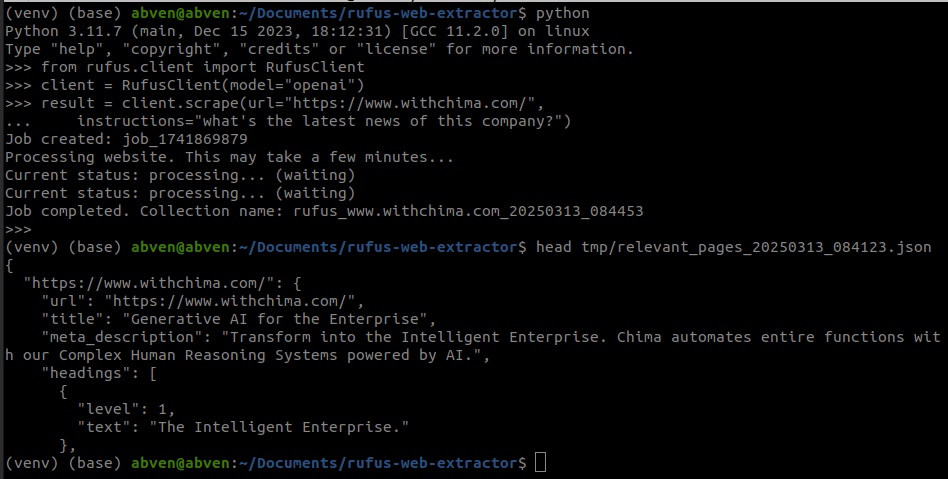
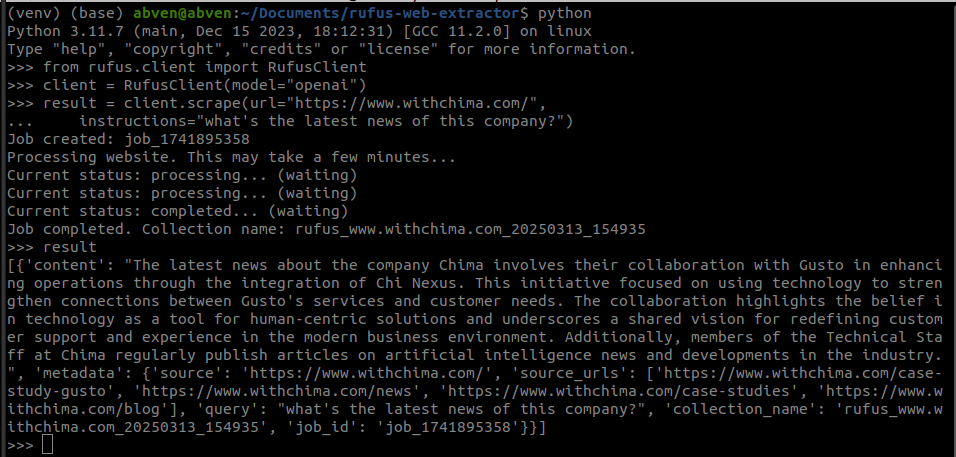
Updated the Output Image in README.md

Changed region(s): [[0.0, 0.0, 1.0, 1.0]]

diff --git a/rufus/client.py b/rufus/client.py
@@ -61,6 +61,164 @@ class RufusClient:
         # Add model info to headers
         self.headers["X-Model-Type"] = self.model
 
+    # def scrape(
+    #     self,
+    #     url: str,
+    #     instructions: str = "",
+    #     max_depth: int = 2,
+    #     max_pages: int = 20,
+    #     use_parallel: bool = True,
+    # ) -> List[Dict[str, Any]]:
+    #     """
+    #     Scrape a website and prepare data for RAG.
+
+    #     Args:
+    #         url: URL to scrape
+    #         instructions: User instructions for content extraction
+    #         max_depth: Maximum crawl depth
+    #         max_pages: Maximum pages to crawl
+    #         use_parallel: Whether to use parallel crawling
+
+    #     Returns:
+    #         List of extracted documents
+    #     """
+    #     # Prepare request payload
+    #     payload = {
+    #         "url": url,
+    #         "instructions": instructions
+    #         or f"Extract comprehensive information from {url}",
+    #         "max_depth": max_depth,
+    #         "max_pages": max_pages,
+    #         "model": self.model,
+    #     }
+
+    #     # Send scrape request
+    #     try:
+    #         response = requests.post(
+    #             f"{self.base_url}/scrape",
+    #             headers=self.headers,
+    #             json=payload,
+    #             timeout=300,  # 5-minute timeout for initial request
+    #         )
+
+    #         # Check response
+    #         if response.status_code != 200:
+    #             try:
+    #                 error_data = response.json()
+    #                 error_msg = error_data.get("detail", "Unknown error")
+    #             except:
+    #                 error_msg = f"HTTP error {response.status_code}"
+
+    #             raise Exception(f"Failed to scrape website: {error_msg}")
+    #     except requests.exceptions.Timeout:
+    #         raise Exception(
+    #             "Request timed out. The server might be busy or unavailable."
+    #         )
+    #     except requests.exceptions.ConnectionError:
+    #         raise Exception(
+    #             f"Connection error. Please make sure the API server is running at {self.base_url}"
+    #         )
+
+    #     # Get job details
+    #     job_data = response.json()
+    #     job_id = job_data.get("job_id")
+
+    #     print(f"Job created: {job_id}")
+    #     print("Processing website. This may take a few minutes...")
+
+    #     # Poll for job completion
+    #     max_retries = 60  # Maximum number of retries (2 minutes with 2-second delay)
+    #     retries = 0
+
+    #     while job_data.get("status") in ["pending", "processing"]:
+    #         time.sleep(2)  # Wait for 2 seconds before checking again
+
+    #         try:
+    #             job_response = requests.get(
+    #                 f"{self.base_url}/jobs/{job_id}", headers=self.headers, timeout=10
+    #             )
+
+    #             if job_response.status_code != 200:
+    #                 raise Exception("Failed to retrieve job status")
+
+    #             job_data = job_response.json()
+
+    #             # Print progress update every 5 retries
+    #             if retries % 5 == 0:
+    #                 status = job_data.get("status", "unknown")
+    #                 print(f"Current status: {status}... (waiting)")
+
+    #             # Break if job is completed or failed
+    #             if job_data.get("status") in ["completed", "failed"]:
+    #                 break
+
+    #             retries += 1
+    #             if retries >= max_retries:
+    #                 raise Exception(
+    #                     "Job processing timed out. Please check the server logs."
+    #                 )
+
+    #         except requests.exceptions.RequestException as e:
+    #             raise Exception(f"Error checking job status: {str(e)}")
+
+    #     # Check if job failed
+    #     if job_data.get("status") == "failed":
+    #         raise Exception(f"Job failed: {job_data.get('error', 'Unknown error')}")
+
+    #     # If completed, get documents
+    #     collection_name = job_data.get("collection_name")
+    #     print(f"Job completed. Collection name: {collection_name}")
+
+    #     # Get the extracted documents from the collection
+    #     # This endpoint needs to be implemented on the server side
+    #     try:
+    #         docs_response = requests.get(
+    #             f"{self.base_url}/collections/{collection_name}/documents",
+    #             headers=self.headers,
+    #             timeout=30
+    #         )
+
+    #         if docs_response.status_code != 200:
+    #             raise Exception(f"Failed to retrieve documents: HTTP {docs_response.status_code}")
+
+    #         # Return the documents
+    #         documents = docs_response.json().get("documents", [])
+            
+    #         # If the documents endpoint isn't working, perform the initial query to get an answer
+    #         if not documents:
+    #             # Use the instructions as the first query to get an initial answer
+    #             answer_data = self.query(collection_name, instructions)
+                
+    #             # Create a synthetic document from the answer
+    #             default_doc = {
+    #                 "content": answer_data.get("answer", "No answer found"),
+    #                 "metadata": {
+    #                     "source": url,
+    #                     "source_urls": answer_data.get("source_urls", [url]),
+    #                     "query": instructions,
+    #                     "collection_name": collection_name
+    #                 }
+    #             }
+    #             documents = [default_doc]
+            
+    #         return documents
+            
+    #     except requests.exceptions.RequestException as e:
+    #         # Fallback to returning the job metadata with an empty documents list
+    #         print(f"Warning: Could not retrieve documents: {str(e)}")
+    #         return [
+    #             {
+    #                 "content": f"Data was extracted but could not be retrieved. Query the collection '{collection_name}' directly.",
+    #                 "metadata": {
+    #                     "job_id": job_id,
+    #                     "collection_name": collection_name,
+    #                     "url": url,
+    #                     "status": job_data.get("status"),
+    #                     "completed_at": job_data.get("completed_at"),
+    #                 }
+    #             }
+    #         ]
+
     def scrape(
         self,
         url: str,
@@ -68,7 +226,7 @@ class RufusClient:
         max_depth: int = 2,
         max_pages: int = 20,
         use_parallel: bool = True,
-    ) -> Dict[str, Any]:
+    ) -> List[Dict[str, Any]]:
         """
         Scrape a website and prepare data for RAG.
 
@@ -80,7 +238,7 @@ class RufusClient:
             use_parallel: Whether to use parallel crawling
 
         Returns:
-            Dictionary containing processed documents and metadata
+            List of extracted documents
         """
         # Prepare request payload
         payload = {
@@ -98,7 +256,7 @@ class RufusClient:
                 f"{self.base_url}/scrape",
                 headers=self.headers,
                 json=payload,
-                timeout=300,  # 2-minute timeout for initial request
+                timeout=300,  # 5-minute timeout for initial request
             )
 
             # Check response
@@ -165,19 +323,39 @@ class RufusClient:
         if job_data.get("status") == "failed":
             raise Exception(f"Job failed: {job_data.get('error', 'Unknown error')}")
 
-        # If completed, return documents
+        # If completed, use instructions as query to get answer 
         collection_name = job_data.get("collection_name")
         print(f"Job completed. Collection name: {collection_name}")
 
-        # Return a documented data structure
-        return {
-            "job_id": job_id,
-            "collection_name": collection_name,
-            "url": url,
-            "status": job_data.get("status"),
-            "completed_at": job_data.get("completed_at"),
-            "model": self.model,
-        }
+        # Use instructions as the query to get an answer
+        try:
+            answer_data = self.query(collection_name, instructions)
+            
+            # Create a document with the answer
+            documents = [{
+                "content": answer_data.get("answer", "No answer found"),
+                "metadata": {
+                    "source": url,
+                    "source_urls": answer_data.get("source_urls", [url]),
+                    "query": instructions,
+                    "collection_name": collection_name,
+                    "job_id": job_id
+                }
+            }]
+            
+            return documents
+        except Exception as e:
+            # Return basic information if query fails
+            print(f"Warning: Could not retrieve answer: {str(e)}")
+            return [{
+                "content": f"Data was extracted into collection '{collection_name}' but could not be retrieved.",
+                "metadata": {
+                    "job_id": job_id,
+                    "collection_name": collection_name,
+                    "url": url,
+                    "status": job_data.get("status")
+                }
+            }]
 
     def query(
         self, collection_name: str, query: str, custom_prompt: Optional[str] = None
@@ -287,7 +465,7 @@ class RufusClient:
             return {"status": "unhealthy", "error": str(e)}
 
 
-# At the end of client.py
+# Example usage
 if __name__ == "__main__":
     # Ask user if they want to run the example
     run_example = input(
@@ -296,7 +474,7 @@ if __name__ == "__main__":
 
     if run_example == "y":
         # Create a client with ollama model (default)
-        client_ollama = RufusClient(model="openai")
+        client = RufusClient(model="openai")
 
         try:
             # Optional: Prompt user for URL
@@ -304,8 +482,9 @@ if __name__ == "__main__":
                 input("Enter URL to scrape (default: https://www.python.org): ")
                 or "https://www.python.org"
             )
-            if not url.startswith("http") or not url.startswith("https"):
+            if not (url.startswith("http://") or url.startswith("https://")):
                 url = "https://" + url
+                
             instructions = (
                 input(
                     "Enter instructions for scraping (default: Extract information about Python programming language and documentation): "
@@ -315,33 +494,49 @@ if __name__ == "__main__":
             max_depth = int(input("Enter maximum crawl depth (default: 1): ") or 1)
             max_pages = int(input("Enter maximum pages to crawl (default: 5): ") or 5)
 
-            # Scrape website
+            # Scrape website and get documents
             print(f"Scraping {url}...")
-            result = client_ollama.scrape(
+            documents = client.scrape(
                 url=url,
                 instructions=instructions,
                 max_depth=max_depth,
                 max_pages=max_pages,
             )
 
-            print(f"Scraping completed: {result}")
+            print(f"\nExtracted {len(documents)} documents")
+            
+            # Print a sample of the first document
+            if documents:
+                first_doc = documents[0]
+                print("\nSample document content:")
+                content_preview = first_doc.get("content", "")[:200] + "..." if len(first_doc.get("content", "")) > 200 else first_doc.get("content", "")
+                print(content_preview)
+                
+                # Print metadata
+                metadata = first_doc.get("metadata", {})
+                if metadata:
+                    print("\nMetadata:")
+                    for key, value in metadata.items():
+                        print(f"- {key}: {value}")
 
             # Optional: Prompt user for query
-            query = (
-                input(
-                    "Enter a query about the website (default: What are the main features of Python?): "
+            collection_name = None
+            if documents and documents[0].get("metadata", {}).get("collection_name"):
+                collection_name = documents[0].get("metadata", {}).get("collection_name")
+            
+            if collection_name:
+                query = (
+                    input(
+                        "Enter a query about the website (default: What are the main features described on this website?): "
+                    )
+                    or "What are the main features described on this website?"
                 )
-                or "What are the main features of Python?"
-            )
 
-            # Query the collection
-            if "collection_name" in result:
+                # Query the collection
                 print("\nQuerying collection...")
-                answer = client_ollama.query(
-                    collection_name=result["collection_name"], query=query
-                )
+                answer = client.query(collection_name=collection_name, query=query)
 
-                print(f"Answer: {answer.get('answer')}")
+                print(f"\nAnswer: {answer.get('answer')}")
                 print("\nSources:")
                 for url in answer.get("source_urls", []):
                     print(f"- {url}")

diff --git a/rufus/api.py b/rufus/api.py
@@ -378,6 +378,41 @@ def delete_collection(collection_name: str):
         )
         raise HTTPException(status_code=500, detail=str(e))
 
+@app.get("/collections/{collection_name}/documents")
+async def get_collection_documents(collection_name: str):
+    """
+    Retrieve documents from a collection.
+    
+    Args:
+        collection_name: Name of the collection
+    
+    Returns:
+        Dictionary with documents list
+    """
+    try:
+        # Initialize RAG handler
+        rag_handler = RAGHandler()
+        
+        # Run a query with the collection name as the query
+        # to get a general summary of the collection content
+        response = rag_handler.generate_answer(
+            query=f"Summarize the key information about {collection_name}",
+            qa_chain=rag_handler.setup_retrieval_qa(collection_name=collection_name)
+        )
+        
+        # Create a document with the summary
+        documents = [{
+            "content": response.get("answer", "No content available"),
+            "metadata": {
+                "source_urls": response.get("source_urls", []),
+                "collection_name": collection_name
+            }
+        }]
+        
+        return {"documents": documents}
+    except Exception as e:
+        logger.error(f"Error retrieving documents: {str(e)}")
+        raise HTTPException(status_code=500, detail=str(e))
 
 @app.get("/health")
 def health_check():
